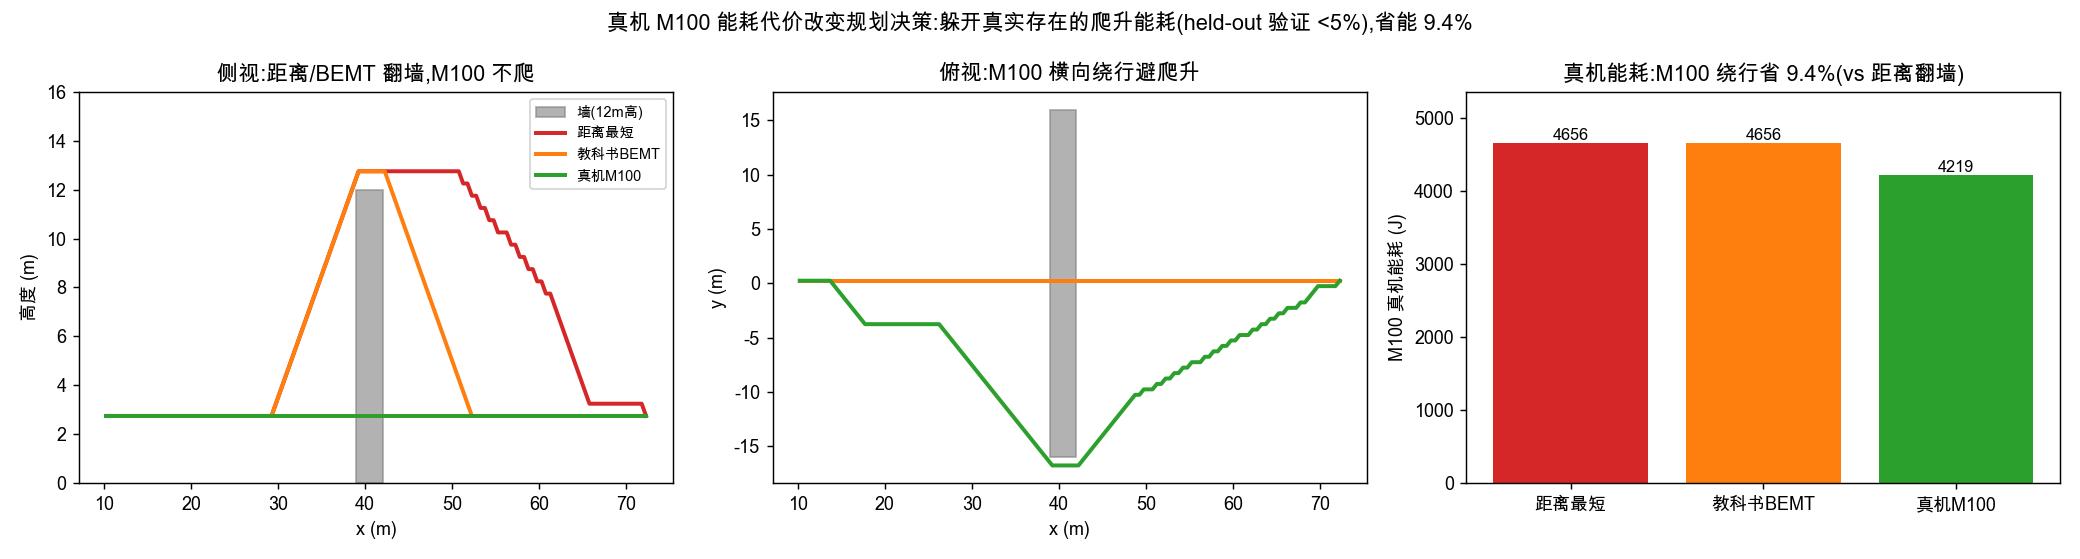
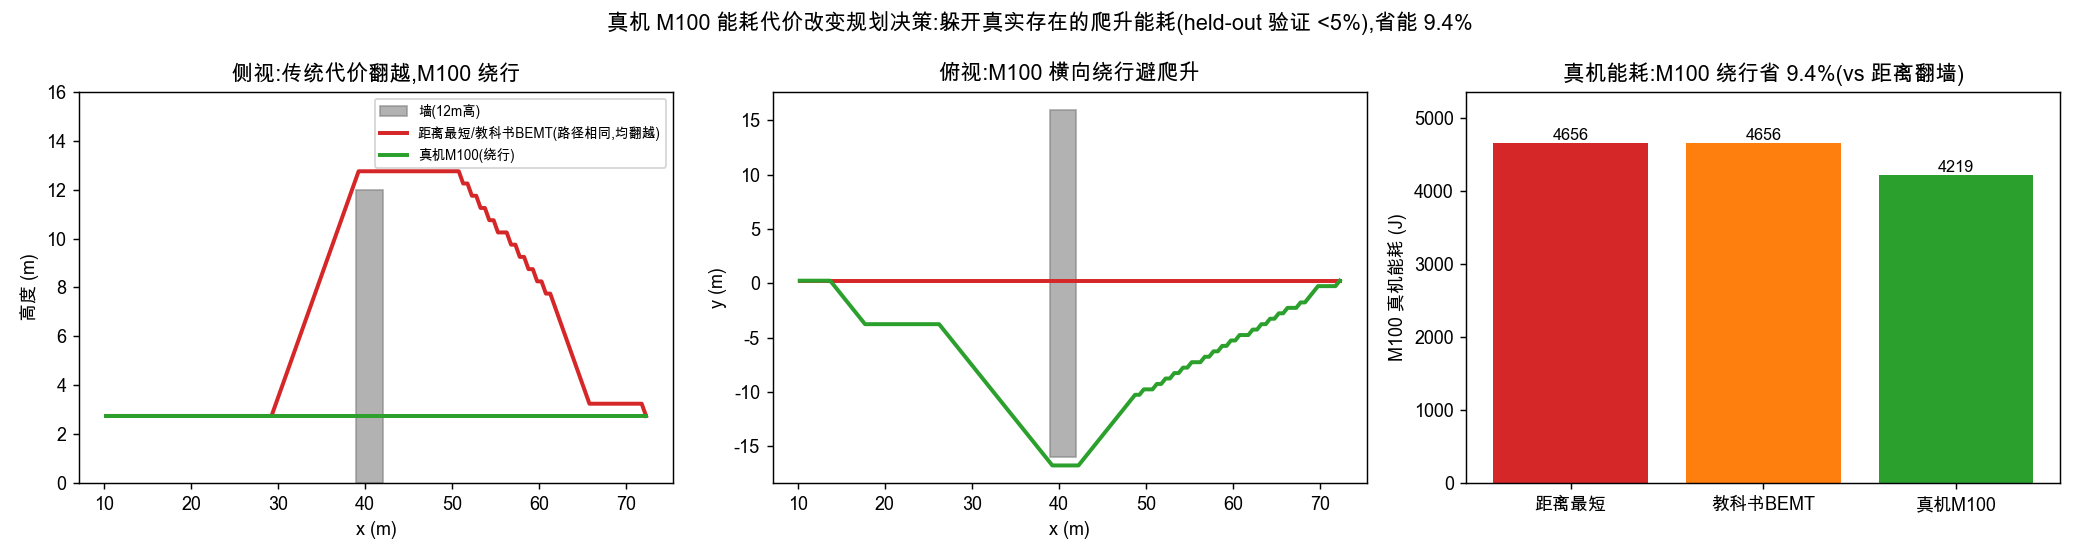
Fix hero figure: merge distance/BEMT into one path line (they share the SAME climb-over decision/path), label 'distance/BEMT: same path, both climb' — removes misleading impression that two identical-decision paths differ; green M100 detour stays separate
红(距离最短)与橙(教科书BEMT)决策相同(都翻越、同长70m),之前画成两条不同折线造成误读。合并为一条线注明'距离最短/教科书BEMT(路径相同,均翻越)',绿(M100绕行)单独。逻辑清晰:传统代价翻墙 vs 真机绕行(能耗更低4219 vs 4656)。

Changed region(s): [[0.0938, 0.0912, 0.3125, 0.3649], [0.4062, 0.4866, 0.6562, 0.517]]

diff --git a/autoresearch/energy_m100/hero_figure.py b/autoresearch/energy_m100/hero_figure.py
@@ -29,16 +29,18 @@ def main():
         paths[nm] = np.array([np.asarray(w, float).reshape(-1)[:3] for w in p])
 
     fig, (axz, axy, axb) = plt.subplots(1, 3, figsize=(16, 4.3))
-    # 侧视 XZ(高度)
+    # 红橙路径(距离/BEMT)决策相同(均翻越,同长70m)——画成一条,注明路径相同
     axz.add_patch(Rectangle((39, 0), 3, HGT, color="gray", alpha=.6, label="墙(12m高)"))
-    for nm, _, c in conds:
-        P = paths[nm]; axz.plot(P[:, 0], -P[:, 2], color=c, lw=2.2, label=nm)
-    axz.set_xlabel("x (m)"); axz.set_ylabel("高度 (m)"); axz.set_title("侧视:距离/BEMT 翻墙,M100 不爬")
-    axz.legend(fontsize=8); axz.set_ylim(0, 16)
+    axz.plot(paths["距离最短"][:, 0], -paths["距离最短"][:, 2], color="tab:red", lw=2.2,
+             label="距离最短/教科书BEMT(路径相同,均翻越)")
+    axz.plot(paths["真机M100"][:, 0], -paths["真机M100"][:, 2], color="tab:green", lw=2.2,
+             label="真机M100(绕行)")
+    axz.set_xlabel("x (m)"); axz.set_ylabel("高度 (m)"); axz.set_title("侧视:传统代价翻越,M100 绕行")
+    axz.legend(fontsize=7.5); axz.set_ylim(0, 16)
     # 俯视 XY(横向绕行)
     axy.add_patch(Rectangle((39, -HALF_Y), 3, 2 * HALF_Y, color="gray", alpha=.6))
-    for nm, _, c in conds:
-        P = paths[nm]; axy.plot(P[:, 0], P[:, 1], color=c, lw=2.2, label=nm)
+    axy.plot(paths["距离最短"][:, 0], paths["距离最短"][:, 1], color="tab:red", lw=2.2)
+    axy.plot(paths["真机M100"][:, 0], paths["真机M100"][:, 1], color="tab:green", lw=2.2)
     axy.set_xlabel("x (m)"); axy.set_ylabel("y (m)"); axy.set_title("俯视:M100 横向绕行避爬升")
     # 能耗柱状(M100 真机尺)
     names = [c[0] for c in conds]
